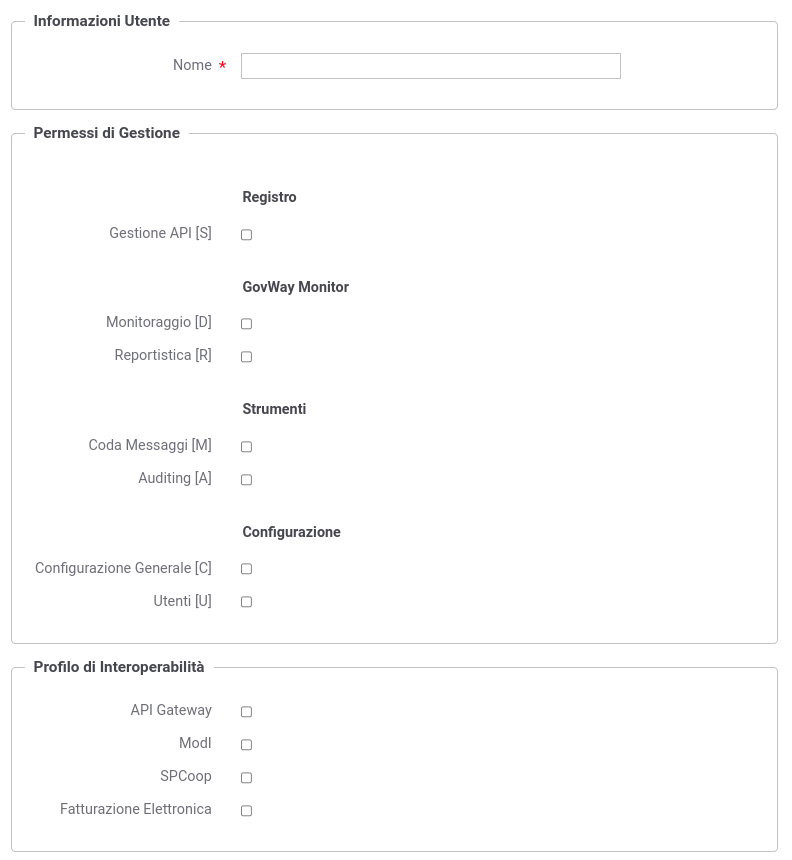
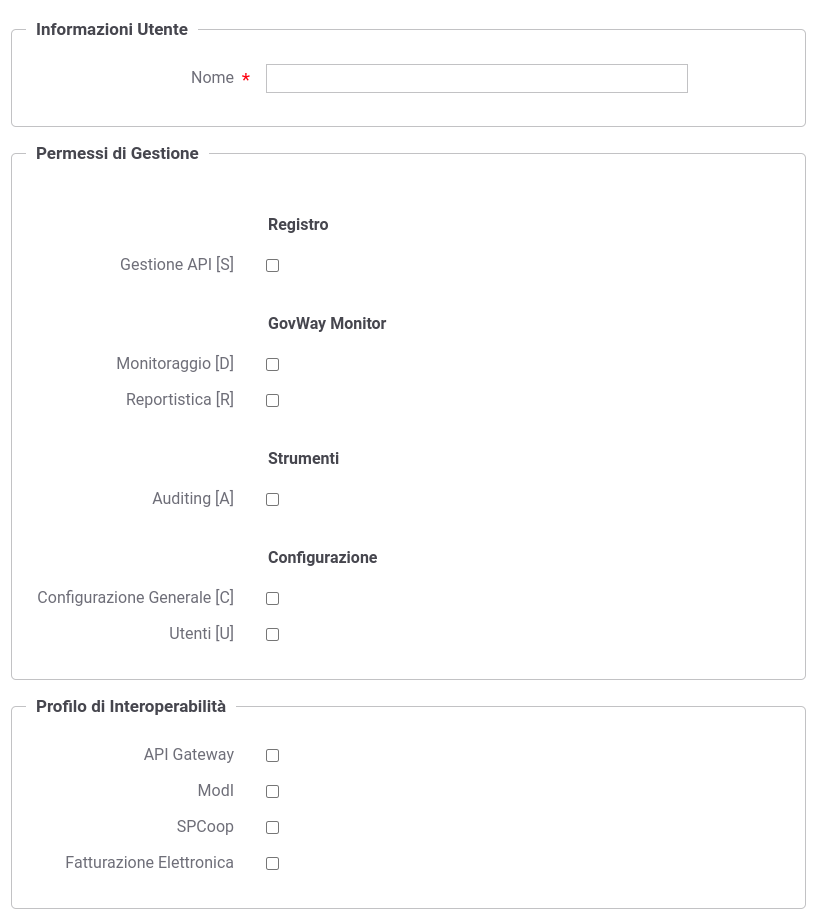
[InstallerVersioneBinaria] Il permesso 'M' all'utenza amministratore viene assegnato solamente se vengono abilitate funzionalità avanzate di presa in carico delle richieste.

diff --git a/tools/command_line_interfaces/govway_vault/testsuite/src/org/openspcoop2/pdd/config/vault/cli/testsuite/secrets/test/SecretsTest.java b/tools/command_line_interfaces/govway_vault/testsuite/src/org/openspcoop2/pdd/config/vault/cli/testsuite/secrets/test/SecretsTest.java
@@ -50,6 +50,7 @@ import org.openspcoop2.pdd.config.vault.cli.testsuite.ConfigLoader;
 import org.openspcoop2.pdd.config.vault.cli.testsuite.TipoServizio;
 import org.openspcoop2.pdd.config.vault.cli.testsuite.Utilities;
 import org.openspcoop2.protocol.engine.constants.Costanti;
+import org.openspcoop2.security.keystore.MerlinProvider;
 import org.openspcoop2.security.message.constants.SecurityConstants;
 import org.openspcoop2.utils.UtilsException;
 import org.openspcoop2.utils.certificate.ArchiveLoader;
@@ -201,6 +202,10 @@ public class SecretsTest extends ConfigLoader {
 	
 	private static final String STORE_PASSWORD_OPENSPCOOP = "openspcoop";
 	private static final String STORE_PASSWORD_OPENSPCOOP_JKS = "openspcoopjks";
+	
+	private static final String SIGNATURE_PROP_REF_ID = "signaturePropRefId";
+	private static final String DECRYPTION_PROP_REF_ID = "decryptionPropRefId";
+	private static final String ENCRYPTION_PROP_REF_ID = "encryptionPropRefId";
 	
 	private String getMessagePrefix(String origine, String found) {
 		return "["+origine+"] Found '"+found+"'; expected";
@@ -854,15 +859,26 @@ public class SecretsTest extends ConfigLoader {
 	
 	private void updateByokPolicy(String oldPolicy, String newPolicy) {
 		
-		ConfigLoader.dbUtils.updateByokPolicyPorteMessageSecurity(oldPolicy, "decryptionPropRefId"+CostantiProprieta.KEY_PROPERTIES_CUSTOM_SEPARATOR+CostantiProprieta.RS_SECURITY_BYOK_POLICY, newPolicy);
-		ConfigLoader.dbUtils.updateByokPolicyPorteMessageSecurity(oldPolicy, "encryptionPropRefId"+CostantiProprieta.KEY_PROPERTIES_CUSTOM_SEPARATOR+CostantiProprieta.RS_SECURITY_BYOK_POLICY, newPolicy);
-		ConfigLoader.dbUtils.updateByokPolicyPorteMessageSecurity(oldPolicy, "signaturePropRefId"+CostantiProprieta.KEY_PROPERTIES_CUSTOM_SEPARATOR+CostantiProprieta.RS_SECURITY_BYOK_POLICY, newPolicy);
+		ConfigLoader.dbUtils.updateByokPolicyPorteMessageSecurity(oldPolicy, DECRYPTION_PROP_REF_ID+CostantiProprieta.KEY_PROPERTIES_CUSTOM_SEPARATOR+CostantiProprieta.RS_SECURITY_BYOK_POLICY, newPolicy);
+		ConfigLoader.dbUtils.updateByokPolicyPorteMessageSecurity(oldPolicy, ENCRYPTION_PROP_REF_ID+CostantiProprieta.KEY_PROPERTIES_CUSTOM_SEPARATOR+CostantiProprieta.RS_SECURITY_BYOK_POLICY, newPolicy);
+		ConfigLoader.dbUtils.updateByokPolicyPorteMessageSecurity(oldPolicy, SIGNATURE_PROP_REF_ID+CostantiProprieta.KEY_PROPERTIES_CUSTOM_SEPARATOR+CostantiProprieta.RS_SECURITY_BYOK_POLICY, newPolicy);
+		
+		List<String> listMerlinKeystore = new ArrayList<>();
+		listMerlinKeystore.add(Merlin.PREFIX+Merlin.KEYSTORE_FILE+MerlinProvider.SUFFIX_BYOK);
+		listMerlinKeystore.add(Merlin.OLD_PREFIX+Merlin.KEYSTORE_FILE+MerlinProvider.SUFFIX_BYOK);
+		listMerlinKeystore.add(Merlin.PREFIX+Merlin.OLD_KEYSTORE_FILE+MerlinProvider.SUFFIX_BYOK);
+		listMerlinKeystore.add(Merlin.OLD_PREFIX+Merlin.OLD_KEYSTORE_FILE+MerlinProvider.SUFFIX_BYOK);
+		for (String p : listMerlinKeystore) {
+			ConfigLoader.dbUtils.updateByokPolicyPorteMessageSecurity(oldPolicy, DECRYPTION_PROP_REF_ID+CostantiProprieta.KEY_PROPERTIES_CUSTOM_SEPARATOR+p, newPolicy);
+			ConfigLoader.dbUtils.updateByokPolicyPorteMessageSecurity(oldPolicy, ENCRYPTION_PROP_REF_ID+CostantiProprieta.KEY_PROPERTIES_CUSTOM_SEPARATOR+p, newPolicy);
+			ConfigLoader.dbUtils.updateByokPolicyPorteMessageSecurity(oldPolicy, SIGNATURE_PROP_REF_ID+CostantiProprieta.KEY_PROPERTIES_CUSTOM_SEPARATOR+p, newPolicy);
+		}
 		
 		ConfigLoader.dbUtils.updateByokPolicyConnettoriCustom(oldPolicy, CostantiConnettori.CONNETTORE_HTTPS_KEY_STORE_BYOK_POLICY, newPolicy);
 		
-		ConfigLoader.dbUtils.updateByokPolicyGenericProperties(oldPolicy, "decryptionPropRefId"+CostantiProprieta.KEY_PROPERTIES_CUSTOM_SEPARATOR+CostantiProprieta.RS_SECURITY_BYOK_POLICY, newPolicy);
-		ConfigLoader.dbUtils.updateByokPolicyGenericProperties(oldPolicy, "encryptionPropRefId"+CostantiProprieta.KEY_PROPERTIES_CUSTOM_SEPARATOR+CostantiProprieta.RS_SECURITY_BYOK_POLICY, newPolicy);
-		ConfigLoader.dbUtils.updateByokPolicyGenericProperties(oldPolicy, "signaturePropRefId"+CostantiProprieta.KEY_PROPERTIES_CUSTOM_SEPARATOR+CostantiProprieta.RS_SECURITY_BYOK_POLICY, newPolicy);
+		ConfigLoader.dbUtils.updateByokPolicyGenericProperties(oldPolicy, DECRYPTION_PROP_REF_ID+CostantiProprieta.KEY_PROPERTIES_CUSTOM_SEPARATOR+CostantiProprieta.RS_SECURITY_BYOK_POLICY, newPolicy);
+		ConfigLoader.dbUtils.updateByokPolicyGenericProperties(oldPolicy, ENCRYPTION_PROP_REF_ID+CostantiProprieta.KEY_PROPERTIES_CUSTOM_SEPARATOR+CostantiProprieta.RS_SECURITY_BYOK_POLICY, newPolicy);
+		ConfigLoader.dbUtils.updateByokPolicyGenericProperties(oldPolicy, SIGNATURE_PROP_REF_ID+CostantiProprieta.KEY_PROPERTIES_CUSTOM_SEPARATOR+CostantiProprieta.RS_SECURITY_BYOK_POLICY, newPolicy);
 		ConfigLoader.dbUtils.updateByokPolicyGenericProperties(oldPolicy, org.openspcoop2.pdd.core.token.Costanti.POLICY_ENDPOINT_SSL_CLIENT_CONFIG+CostantiProprieta.KEY_PROPERTIES_CUSTOM_SEPARATOR+CostantiConnettori.CONNETTORE_HTTPS_KEY_STORE_BYOK_POLICY, newPolicy);
 		ConfigLoader.dbUtils.updateByokPolicyGenericProperties(oldPolicy, org.openspcoop2.pdd.core.token.Costanti.POLICY_RETRIEVE_TOKEN_JWT_SIGN_KEYSTORE_BYOK_POLICY, newPolicy);
 		ConfigLoader.dbUtils.updateByokPolicyGenericProperties(oldPolicy, org.openspcoop2.pdd.core.token.attribute_authority.Costanti.AA_REQUEST_JWT_SIGN_KEYSTORE_BYOK_POLICY, newPolicy);

diff --git a/resources/doc/src/manuali/console/configurazione/utenti.rst b/resources/doc/src/manuali/console/configurazione/utenti.rst
@@ -45,17 +45,6 @@ conseguentemente i permessi associabili a ciascun utente:
       quanto possono assumere l'identità di un qualunque utente del
       sistema.
 
--  *Altri Permessi (visibili solo configurazione specifica del
-   prodotto)*
-
-   -  *[P]* - Gestione delle entità di configurazione degli Accordi di
-      Cooperazione e Servizi Composti.
-
-   -  *[M]* - Accesso alle code messaggi sul gateway. Questa
-      autorizzazione consente ad esempio di consultare i messaggi
-      presenti nelle Message Box dell'Integration Manager ed
-      eventualmente effettuare delle rimozioni.
-
 L'applicazione, al termine dell'installazione, contiene una utenza
 (credenziali indicate durante l'esecuzione dell'installer) che permette
 di effettuare tutte le principali operazioni di gestione.
